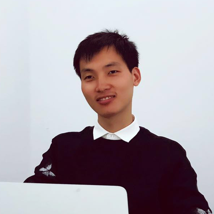
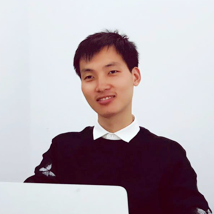
update imgs

diff --git a/index_cn.html b/index_cn.html
@@ -378,7 +378,7 @@
 				</div>
 				<div class="col-sm-6 col-lg-3 fadeInUp animated">
 					<div class="text-center">
-						<img src="images/team/Janice.png" alt="Janice Shi" title="Janice Shi" class="photo">
+						<img src="images/team/Janice.jpg" alt="Janice Shi" title="Janice Shi" class="photo">
 						<div class="personal-info">
 							<strong class="t-name">Janice Shi</strong>
 							<em class="positionbox">The Head Of Global Development</em>

diff --git a/index.html b/index.html
@@ -379,7 +379,7 @@
 		</div>
 		<div class="col-sm-6 col-lg-3 fadeInUp animated">
 			<div class="text-center">
-				<img src="images/team/Janice.png" alt="Janice Shi" title="Janice Shi" class="photo">
+				<img src="images/team/Janice.jpg" alt="Janice Shi" title="Janice Shi" class="photo">
 				<div class="personal-info">
 					<strong class="t-name">Janice Shi</strong>
 					<em class="positionbox">The Head Of Global Development</em>
